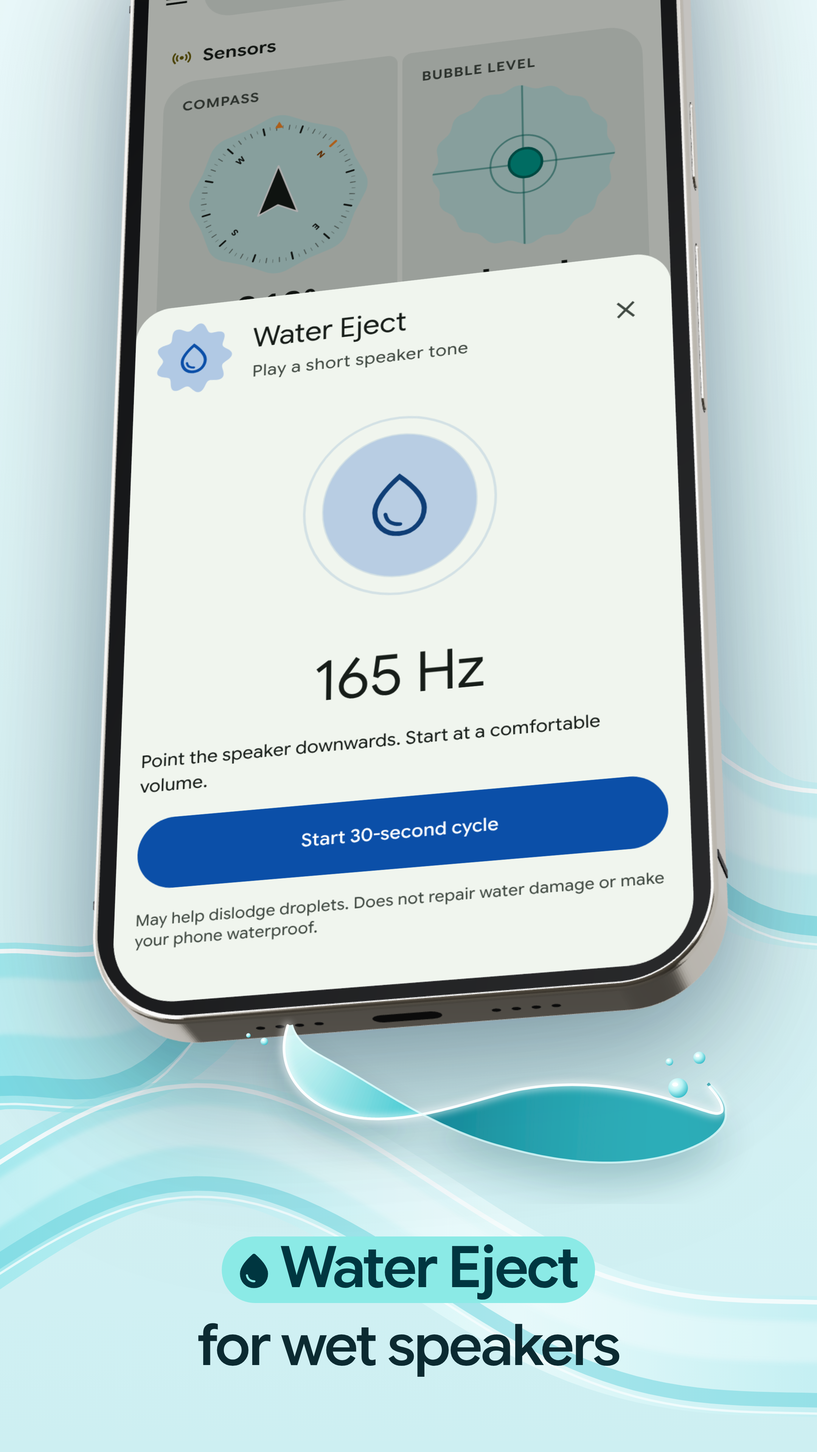
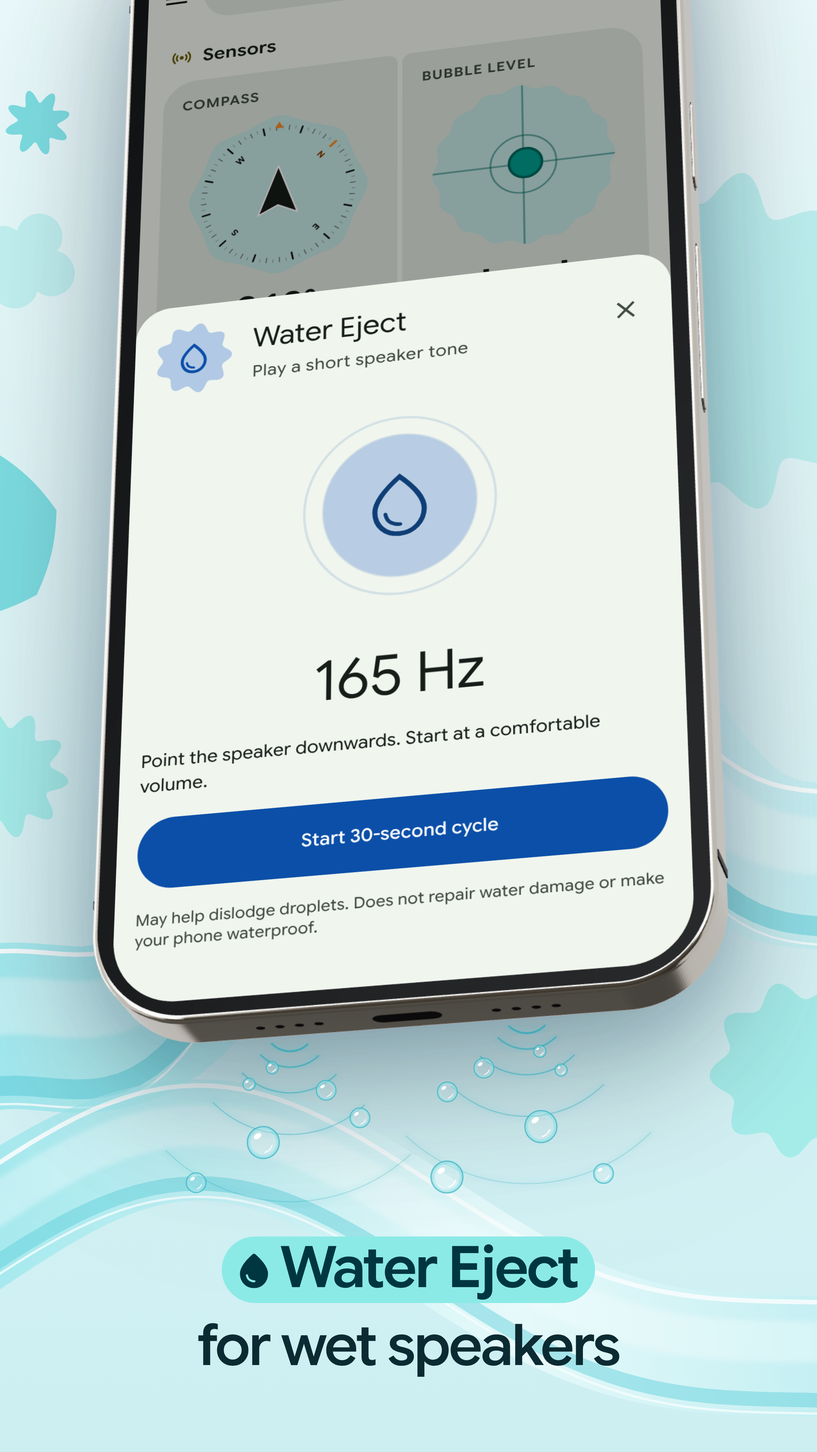
Speaker Water Eject hero: sound waves, bubbles and shapes
Replace the water ribbon with fine sound arcs from both groups of the
3D Pixel's speaker holes, opening along the bottom face's projected
normal on a Fibonacci radius scale, and bubbles riding just outside the
wavefronts. Add MaterialShapes in the campaign's aqua tones, placed
only where the background's glass ribbons leave room, with the largest
behind the phone's right edge. The ribbon geometry is now shared by the
background and the shape placement; other graphics are unchanged.

Claude-Session: https://claude.ai/code/session_01EEYGaFXbmvKJrEAo9apjWh

diff --git a/marketing/creative/store/google-play/listings/custom/speaker-water-eject/source/src/heroGeometry.ts b/marketing/creative/store/google-play/listings/custom/speaker-water-eject/source/src/heroGeometry.ts
@@ -127,6 +127,30 @@ export const widthAt = (poly: Pt[], y: number) => {
   return xs.length ? Math.max(...xs) - Math.min(...xs) : 0;
 };
 
+/** Even–odd point-in-polygon test. */
+export const inside = (poly: Pt[], [x, y]: Pt) => {
+  let c = false;
+  poly.forEach((p, i) => { const q = poly[(i + poly.length - 1) % poly.length]; if ((p[1] > y) !== (q[1] > y) && x < ((q[0] - p[0]) * (y - p[1])) / (q[1] - p[1]) + p[0]) c = !c; });
+  return c;
+};
+
+/** The lowest point of a closed polygon on the vertical line at `x`, or -Infinity if the line misses it. */
+export const floorAt = (poly: Pt[], x: number) => {
+  let y = -Infinity;
+  poly.forEach((p, i) => {
+    const q = poly[(i + 1) % poly.length];
+    if ((p[0] - x) * (q[0] - x) <= 0 && p[0] !== q[0]) y = Math.max(y, p[1] + ((q[1] - p[1]) * (x - p[0])) / (q[0] - p[0]));
+  });
+  return y;
+};
+
+/** The distance from a point to a closed polygon's outline. */
+export const distanceTo = (poly: Pt[], [x, y]: Pt) => Math.min(...poly.map((p, i) => {
+  const q = poly[(i + 1) % poly.length], [dx, dy] = [q[0] - p[0], q[1] - p[1]];
+  const t = Math.max(0, Math.min(1, ((x - p[0]) * dx + (y - p[1]) * dy) / (dx * dx + dy * dy || 1)));
+  return Math.hypot(x - p[0] - t * dx, y - p[1] - t * dy);
+}));
+
 export type Ui = Record<"title" | "visual" | "readout" | "instructions" | "button" | "note", number[]>;
 
 /** Everything the solver scores and the overlay draws, for one pose. */
@@ -144,18 +168,21 @@ export const measure = (pose: Pose, ui: Ui) => {
   const along = [edgeFront[1][0] - edgeFront[0][0], edgeFront[1][1] - edgeFront[0][1]], al = Math.hypot(along[0], along[1]);
   const thickness = ((eb[0] - ef[0]) * -along[1] + (eb[1] - ef[1]) * along[0]) / al;
   const angle = (Math.atan2(edgeFront[1][1] - edgeFront[0][1], edgeFront[1][0] - edgeFront[0][0]) * 180) / Math.PI;
-  const speaker = project(pose, [SPEAKER.left, hh, 0]);
-  // The direction water leaves the grille: the bottom face's outward normal, as the camera sees it.
-  const out = project(pose, [SPEAKER.left, hh + 40, 0]);
-  const len = Math.hypot(out[0] - speaker[0], out[1] - speaker[1]);
-  const direction: Pt = [(out[0] - speaker[0]) / len, (out[1] - speaker[1]) / len];
+  // Each group of speaker holes, and the direction sound leaves it: the bottom face's outward normal,
+  // as the camera sees it.
+  const speakers = [SPEAKER.left, SPEAKER.right].map((sx) => {
+    const at = project(pose, [sx, hh, 0]), out = project(pose, [sx, hh + 40, 0]);
+    const len = Math.hypot(out[0] - at[0], out[1] - at[1]);
+    return { at, direction: [(out[0] - at[0]) / len, (out[1] - at[1]) / len] as Pt };
+  });
+  const [speaker, direction] = [speakers[0].at, speakers[0].direction];
   // Signed the same way: how far the back of the right side shows beyond its front, to the right.
   const [sf, sb] = [project(pose, [FRAME.width / 2, 0, d]), project(pose, [FRAME.width / 2, 0, -d])];
   const side = ((sb[0] - sf[0]) * along[0] + (sb[1] - sf[1]) * along[1]) / al;
   const quads = Object.fromEntries(Object.entries(ui).map(([k, [l, t, r, b]]) => [k, [[l, t], [r, t], [r, b], [l, b]].map((p) => projectScreen(pose, p as Pt))])) as Record<keyof Ui, Pt[]>;
   // How much narrower the phone is where it leaves the top edge than just above its bottom edge.
   const keystone = widthAt(silhouette, 0) / widthAt(silhouette, focal[1] - SPACE.xl);
-  return { keystone, silhouette, visible, area, centroid, box: bbox(visible), full: bbox(silhouette), edgeFront, edgeBack, focal, thickness, angle, speaker, direction, side, quads };
+  return { keystone, silhouette, visible, area, centroid, box: bbox(visible), full: bbox(silhouette), edgeFront, edgeBack, focal, thickness, angle, speaker, direction, speakers, side, quads };
 };
 
 /** The caption's top: its two lines (76 px at a 1.36 line height) stand on CAPTION_BAND.bottom. */
@@ -175,43 +202,78 @@ export const violations = (m: ReturnType<typeof measure>) => {
   return v;
 };
 
-/** A cubic Bézier sampled at `n` + 1 points. */
-export const bezier = ([p0, p1, p2, p3]: Pt[], n: number): Pt[] => Array.from({ length: n + 1 }, (_, i) => {
-  const t = i / n, u = 1 - t;
-  return [0, 1].map((k) => u * u * u * p0[k] + 3 * u * u * t * p1[k] + 3 * u * t * t * p2[k] + t * t * t * p3[k]) as Pt;
-});
+/**
+ * Sound leaving both groups of speaker holes: for each, arcs centred on the projected holes, opening along
+ * the bottom face's projected normal, spanning ±`SPREAD` degrees, with radii from the spacing scale;
+ * the largest stops SPACE.m short of the caption.
+ */
+const SPREAD = 44;
+const RINGS = [SPACE.m, SPACE.l, SPACE.xl, SPACE.xxl, SPACE.xl + SPACE.xxl];
+export type Arc = { pts: Pt[]; ring: number };
+const onArc = (m: ReturnType<typeof measure>, k: number, radius: number, degrees: number): Pt => {
+  const { at: s, direction: d } = m.speakers[k], n: Pt = [-d[1], d[0]], a = rad(degrees);
+  return [s[0] + radius * (d[0] * Math.cos(a) + n[0] * Math.sin(a)), s[1] + radius * (d[1] * Math.cos(a) + n[1] * Math.sin(a))];
+};
+export const soundArcs = (m: ReturnType<typeof measure>): Arc[] =>
+  m.speakers.flatMap((_, k) => RINGS.filter((radius) => onArc(m, k, radius, 0)[1] <= CAPTION_TOP - SPACE.m).map((radius, ring) => ({ ring, pts: Array.from({ length: 41 }, (_, i) => onArc(m, k, radius, -SPREAD + (2 * SPREAD * i) / 40)) })));
 
 /**
- * The water's spine: two cubic Béziers joined smoothly. It leaves the speaker along the bottom face's
- * outward normal, bends through its lowest point on the right golden vertical, and rises into the open
- * space under the phone's right side, ending below it.
+ * Bubbles, [x, y, r], carried by the sound: each sits just outside a wavefront, as if the wave were pushing
+ * it, and grows the further out it rides (radii 8, 13, 21 from the scale). Angles are mirrored between the
+ * two speakers and offset a little so the pattern is not symmetric. A bubble is dropped if it would touch
+ * the phone, come within SPACE.m of the caption or meet another bubble.
  */
-export const waterSpine = (m: ReturnType<typeof measure>): Pt[] => {
-  const s = m.speaker, d = m.direction;
-  // The lowest point sits on the right golden vertical, SPACE.l above the water band's floor, so the
-  // ribbon's width stays clear of the caption; the tip stops SPACE.xl below the phone's silhouette,
-  // short of the right safe margin.
-  const low: Pt = [GOLDEN.x[1], WATER_BAND.bottom - SPACE.l];
-  const tipX = W - SAFE_X - SPACE.xl;
-  const tip: Pt = [tipX, Math.max(...m.silhouette.filter((p) => Math.abs(p[0] - tipX) < SPACE.xl).map((p) => p[1]), m.focal[1]) + SPACE.xl];
-  const first = bezier([s, [s[0] + d[0] * SPACE.xl, s[1] + d[1] * SPACE.xl], [low[0] - SPACE.xxl, low[1]], low], 60);
-  const second = bezier([low, [low[0] + SPACE.xxl, low[1]], [tip[0] + SPACE.xl, tip[1] + SPACE.xl], tip], 60);
-  return [...first, ...second.slice(1)];
+const RIDERS: [number, number, number][] = [[1, 22, 8], [2, -30, 13], [2, 34, 8], [3, -38, 13], [3, 12, 21], [4, -20, 21], [4, 30, 13]];
+export const bubbles = (m: ReturnType<typeof measure>): [number, number, number][] => {
+  const out: [number, number, number][] = [];
+  m.speakers.forEach((_, k) => RIDERS.forEach(([ring, degrees, r]) => {
+    const radius = RINGS[ring] + r * 0.7;
+    const [x, y] = onArc(m, k, radius, (k ? -degrees : degrees) + (k ? 6 : 0));
+    if (y + r > CAPTION_TOP - SPACE.m || x - r < SAFE_X || x + r > W - SAFE_X) return;
+    if (inside(m.visible, [x, y]) || distanceTo(m.visible, [x, y]) < r + SPACE.xs) return;
+    if (out.some(([bx, by, br]) => Math.hypot(bx - x, by - y) < br + r + SPACE.xs)) return;
+    out.push([x, y, r]);
+  }));
+  return out;
 };
 
-/** Droplets leaving the tip along its last direction, and two small ones at the grille. Radii 13, 8, 5. */
-export const waterDrops = (spine: Pt[]): [number, number, number][] => {
-  const [a, b] = [spine[spine.length - 6], spine[spine.length - 1]];
-  const l = Math.hypot(b[0] - a[0], b[1] - a[1]), d = [(b[0] - a[0]) / l, (b[1] - a[1]) / l], n = [-d[1], d[0]];
-  const s = spine[0];
-  return [
-    [b[0] + d[0] * SPACE.m + n[0] * SPACE.xs, b[1] + d[1] * SPACE.m + n[1] * SPACE.xs, 8],
-    [b[0] + d[0] * SPACE.l - n[0] * SPACE.s, b[1] + d[1] * SPACE.l - n[1] * SPACE.s, 5],
-    [b[0] + d[0] * SPACE.s - n[0] * SPACE.m, b[1] + d[1] * SPACE.s - n[1] * SPACE.m, 13],
-    [s[0] - SPACE.m, s[1] + SPACE.s, 5],
-    [s[0] - SPACE.l, s[1] + SPACE.xs, 3],
-  ];
-};
+export type Piece = { name: string; x: number; y: number; size: number; color: string; rotate: number };
 
-/** Half-width of the water along its spine: from a 6 px jet to a broad body, tapering to the tip. */
-export const waterHalfWidth = (t: number) => 3 + (SPACE.xl * 0.75) * Math.pow(Math.sin(Math.PI * Math.min(t * 1.1, 1)), 1.1);
+/** The MaterialShapes the other listings scatter, in the campaign's aqua tones only. */
+const SHAPE_NAMES = ["cookie_9sided", "flower", "clover_4leaf", "soft_burst", "gem", "pill", "sunny", "cookie_6sided"];
+const SHAPE_COLORS = ["#A6EDEA", "#7DDDE1", "#C2F0F0"];
+
+/**
+ * Shapes for the hero: one large shape behind the phone, showing beside its right edge above the
+ * the sound, and smaller ones from a seeded generator in the open space. Every shape keeps SPACE.s
+ * clear of the background's glass ribbons; a small one also keeps SPACE.s from the phone's visible
+ * silhouette, SPACE.m from the caption's text, the sound arcs, the bubbles and the other shapes, and may
+ * run off the image's edge.
+ */
+export type Ribbon = { pts: Pt[]; half: number };
+export const heroShapes = (m: ReturnType<typeof measure>, arcs: Arc[], spheres: [number, number, number][], ribbons: Ribbon[]): Piece[] => {
+  const clearOfRibbons = (cx: number, cy: number, r: number) => ribbons.every((b) => b.pts.every((p) => Math.hypot(p[0] - cx, p[1] - cy) > r + b.half + SPACE.s));
+  // The large shape: centred SPACE.xxl in from the right edge, on the upper golden line divided by φ,
+  // as large as it can be (up to the image's width) while it stays clear of the ribbons.
+  const [bx, by] = [W - SPACE.xxl, GOLDEN.y[0] / PHI];
+  let big = W;
+  while (big > SPACE.xxl && !clearOfRibbons(bx, by, big / 2)) big -= SPACE.xs;
+  const pieces: Piece[] = [{ name: "cookie_12sided", x: bx - big / 2, y: by - big / 2, size: big, color: "#BDEFEF", rotate: 12 }];
+  let seed = 11;
+  const rand = () => ((seed = (Math.imul(seed, 1664525) + 1013904223) >>> 0) / 4294967296);
+  const effect = [...arcs.flatMap((a) => a.pts).map((p) => [p[0], p[1], 6]), ...spheres] as number[][];
+  const caption = { left: W / 2 - 330, right: W / 2 + 330, top: CAPTION_TOP, bottom: CAPTION_BAND.bottom };
+  const clearOfPhone = (cx: number, cy: number, r: number) => !inside(m.visible, [cx, cy]) && distanceTo(m.visible, [cx, cy]) > r + SPACE.s;
+  const small: Piece[] = [];
+  for (let k = 0; small.length < 5 && k < 6000; k++) {
+    const size = SPACE.xl + rand() * (SPACE.xxl + SPACE.l), r = size / 2;
+    const cx = -r * 0.4 + rand() * (W + r * 0.8), cy = -r * 0.4 + rand() * (H + r * 0.8);
+    if (!clearOfPhone(cx, cy, r) || !clearOfRibbons(cx, cy, r)) continue;
+    if (Math.hypot(cx - bx, cy - by) < r + big / 2 + SPACE.m) continue;
+    if (cx + r > caption.left - SPACE.m && cx - r < caption.right + SPACE.m && cy + r > caption.top - SPACE.m && cy - r < caption.bottom + SPACE.m) continue;
+    if (effect.some(([x, y, er]) => Math.hypot(x - cx, y - cy) < r + er + SPACE.m)) continue;
+    if (small.some((p) => Math.hypot(p.x + p.size / 2 - cx, p.y + p.size / 2 - cy) < (p.size + size) / 2 + SPACE.m)) continue;
+    small.push({ name: SHAPE_NAMES[small.length % SHAPE_NAMES.length], x: cx - r, y: cy - r, size, color: SHAPE_COLORS[small.length % SHAPE_COLORS.length], rotate: rand() * 360 });
+  }
+  return [...pieces, ...small];
+};

diff --git a/marketing/creative/store/google-play/listings/custom/speaker-water-eject/source/src/Glass.tsx b/marketing/creative/store/google-play/listings/custom/speaker-water-eject/source/src/Glass.tsx
@@ -6,21 +6,31 @@ import React from "react";
  * and white along its length, with a bright rim and a cyan refracting edge. The ribbons are
  * computed across the whole strip, so every seam between two screenshots meets.
  */
+/** The ribbons: centre height, swing and period (in screenshots) as shares, band width in px. */
+const RIBBONS = [
+  { y0: 0.62, amp: 0.2, period: 1.7, phase: 2.4, w: 220, o: 0.9 },
+  { y0: 0.92, amp: 0.1, period: 2.6, phase: 4.1, w: 160, o: 0.8 },
+];
+
+/**
+ * Each ribbon's centreline across a strip, with the half-width its band and rims cover, so other art
+ * can keep clear of it. A slow sweep rising and falling once per screenshot or two.
+ */
+export const ribbonLines = (width: number, height: number, panels: number) => {
+  const panel = width / panels;
+  return RIBBONS.map((r) => ({
+    ...r,
+    half: r.w / 2,
+    pts: Array.from({ length: Math.floor((width + 400) / 20) + 1 }, (_, i) => {
+      const x = -200 + i * 20, y0 = height * r.y0, amp = height * r.amp;
+      return [x, y0 + amp * Math.sin((x / (panel * r.period)) * Math.PI * 2 + r.phase) + amp * 0.35 * Math.sin((x / (panel * r.period * 0.37)) * Math.PI * 2 + r.phase * 2.3)] as [number, number];
+    }),
+  }));
+};
+
 export const Glass: React.FC<{ width: number; height: number; panels: number; id?: string }> = ({ width, height, panels, id = "g" }) => {
   const panel = width / panels;
-  // A ribbon's centreline: a slow sweep across the strip, rising and falling once per screenshot or two.
-  const ribbon = (y0: number, amp: number, period: number, phase: number) => {
-    const pts: string[] = [];
-    for (let x = -200; x <= width + 200; x += 20) {
-      const y = y0 + amp * Math.sin((x / (panel * period)) * Math.PI * 2 + phase) + amp * 0.35 * Math.sin((x / (panel * period * 0.37)) * Math.PI * 2 + phase * 2.3);
-      pts.push(`${x},${y.toFixed(1)}`);
-    }
-    return `M ${pts.join(" L ")}`;
-  };
-  const ribbons = [
-    { d: ribbon(height * 0.62, height * 0.2, 1.7, 2.4), w: 220, o: 0.9 },
-    { d: ribbon(height * 0.92, height * 0.1, 2.6, 4.1), w: 160, o: 0.8 },
-  ];
+  const ribbons = ribbonLines(width, height, panels).map((r) => ({ d: `M ${r.pts.map(([x, y]) => `${x},${y.toFixed(1)}`).join(" L ")}`, w: r.w, o: r.o }));
   return (
     <svg aria-hidden width={width} height={height} viewBox={`0 0 ${width} ${height}`} style={{ position: "absolute", inset: 0, pointerEvents: "none" }}>
       <defs>
@@ -51,64 +61,36 @@ export const Glass: React.FC<{ width: number; height: number; panels: number; id
   );
 };
 
-/** A point on a Catmull-Rom curve through `pts`, at `t` from 0 to 1. */
-const along = (pts: number[][], t: number) => {
-  const n = pts.length - 1, f = Math.min(t * n, n - 1e-6), i = Math.floor(f), u = f - i;
-  const p0 = pts[Math.max(i - 1, 0)], p1 = pts[i], p2 = pts[i + 1], p3 = pts[Math.min(i + 2, n)];
-  return [0, 1].map((k) => 0.5 * (2 * p1[k] + (-p0[k] + p2[k]) * u + (2 * p0[k] - 5 * p1[k] + 4 * p2[k] - p3[k]) * u * u + (-p0[k] + 3 * p1[k] - 3 * p2[k] + p3[k]) * u * u * u));
-};
-const mix = (a: number[], b: number[], t: number) => a.map((v, k) => Math.round(v + (b[k] - v) * t));
-const rgb = (c: number[]) => `rgb(${c.join(",")})`;
-
 /**
- * Water leaving a speaker along `spine` (image coordinates, from the grille outwards): a ribbon of liquid
- * whose half-width follows `halfWidth`, twisting over as it travels so its light face and its deeper
- * underside both show. Built from short lit segments with bright rims; `drops` are [x, y, r]. An
- * illustration of the tone's effect, not a claim.
+ * Sound leaving the speakers and the bubbles it carries: `arcs` are point lists with their ring, 0 nearest, drawn as soft
+ * turquoise lines that fade as they spread; `bubbles` are [x, y, r], clear spheres with
+ * a rim and a highlight. An illustration of the tone, not a claim.
  */
-export const Wave: React.FC<{ spine: number[][]; halfWidth: (t: number) => number; drops: number[][]; width: number; height: number }> = ({ spine, halfWidth, drops, width, height }) => {
-  const N = 160;
-  const light = [214, 251, 250], mid = [64, 210, 218], deep = [8, 128, 144];
-  const segments = Array.from({ length: N }, (_, i) => {
-    const t0 = i / N, t1 = (i + 1) / N;
-    const edge = (t: number) => {
-      const [cx, cy] = along(spine, t), [ax, ay] = along(spine, Math.max(t - 0.004, 0)), [bx, by] = along(spine, Math.min(t + 0.004, 1));
-      const len = Math.hypot(bx - ax, by - ay) || 1, nx = -(by - ay) / len, ny = (bx - ax) / len;
-      const w = halfWidth(t);
-      const twist = Math.cos(Math.PI * 1.35 * t);
-      return { a: [cx + nx * w * twist, cy + ny * w * twist], b: [cx - nx * w * twist, cy - ny * w * twist], twist };
-    };
-    const e0 = edge(t0), e1 = edge(t1);
-    const face = Math.abs(e0.twist), front = e0.twist >= 0;
-    const fill = front ? mix(mix(mid, light, face), deep, t0 * 0.35) : mix(deep, mid, face * 0.5);
-    return { key: i, d: `M ${e0.a} L ${e1.a} L ${e1.b} L ${e0.b} Z`, fill: rgb(fill), a: [e0.a, e1.a], b: [e0.b, e1.b], t: t0 };
-  });
-  const rim = (side: "a" | "b") => `M ${segments.map((s) => s[side][0]).join(" L ")}`;
-  return (
-    <svg aria-hidden width={width} height={height} viewBox={`0 0 ${width} ${height}`} style={{ position: "absolute", inset: 0, pointerEvents: "none" }}>
-      <defs>
-        <radialGradient id="wave-drop" cx=".35" cy=".3" r=".8">
-          <stop offset="0" stopColor="#FFFFFF" />
-          <stop offset=".45" stopColor="#B8F3F4" />
-          <stop offset="1" stopColor="#1FB3C2" />
-        </radialGradient>
-        <filter id="wave-shadow" x="-20%" y="-20%" width="140%" height="150%"><feDropShadow dx="0" dy="28" stdDeviation="24" floodColor="#00444E" floodOpacity=".25" /></filter>
-        <filter id="wave-soft" x="-10%" y="-10%" width="120%" height="120%"><feGaussianBlur stdDeviation="5" /></filter>
-      </defs>
-      <g>
-        <g filter="url(#wave-shadow)" opacity=".94">
-          {segments.map((s) => <path key={s.key} d={s.d} fill={s.fill} stroke={s.fill} strokeWidth="1.2" strokeLinejoin="round" />)}
+export const SoundBubbles: React.FC<{ arcs: { pts: number[][]; ring: number }[]; bubbles: number[][]; width: number; height: number }> = ({ arcs, bubbles, width, height }) => (
+  <svg aria-hidden width={width} height={height} viewBox={`0 0 ${width} ${height}`} style={{ position: "absolute", inset: 0, pointerEvents: "none" }}>
+    <defs>
+      <radialGradient id="sound-bubble" cx=".5" cy=".5" r=".5">
+        <stop offset=".62" stopColor="#FFFFFF" stopOpacity=".08" />
+        <stop offset=".9" stopColor="#7FDDE4" stopOpacity=".6" />
+        <stop offset="1" stopColor="#FFFFFF" stopOpacity=".95" />
+      </radialGradient>
+      <filter id="sound-glow" x="-20%" y="-20%" width="140%" height="140%"><feGaussianBlur stdDeviation="4" /></filter>
+    </defs>
+    {arcs.map(({ pts, ring: i }, key) => {
+      const d = `M ${pts.map((p) => p.map((n) => n.toFixed(1)).join(" ")).join(" L ")}`, fade = 1 - i * 0.15;
+      return (
+        <g key={key} opacity={fade}>
+          <path d={d} fill="none" stroke="#3FC6D3" strokeWidth={7} strokeLinecap="round" opacity=".18" filter="url(#sound-glow)" />
+          <path d={d} fill="none" stroke="#1AA5B5" strokeWidth={Math.max(1.4, 2.6 - i * 0.3)} strokeLinecap="round" opacity=".6" />
         </g>
-        <path d={rim("a")} fill="none" stroke="#FFFFFF" strokeWidth="10" strokeLinecap="round" opacity=".55" filter="url(#wave-soft)" />
-        <path d={rim("a")} fill="none" stroke="#FFFFFF" strokeWidth="3.5" strokeLinecap="round" opacity=".95" />
-        <path d={rim("b")} fill="none" stroke="#E8FFFF" strokeWidth="2.5" strokeLinecap="round" opacity=".8" />
-        {drops.map(([cx, cy, r], i) => (
-          <g key={i}>
-            <circle cx={cx} cy={cy} r={r} fill="url(#wave-drop)" />
-            <ellipse cx={cx - r * 0.3} cy={cy - r * 0.35} rx={r * 0.3} ry={r * 0.2} fill="#FFFFFF" />
-          </g>
-        ))}
+      );
+    })}
+    {bubbles.map(([x, y, r], i) => (
+      <g key={i}>
+        <circle cx={x} cy={y} r={r} fill="url(#sound-bubble)" stroke="#1FA9B8" strokeOpacity=".65" strokeWidth={Math.max(1.5, r * 0.09)} />
+        <ellipse cx={x - r * 0.36} cy={y - r * 0.4} rx={r * 0.26} ry={r * 0.16} fill="#FFFFFF" transform={`rotate(-35 ${x - r * 0.36} ${y - r * 0.4})`} />
+        <path d={`M ${x + r * 0.55} ${y + r * 0.2} A ${r * 0.7} ${r * 0.7} 0 0 1 ${x + r * 0.1} ${y + r * 0.62}`} fill="none" stroke="#FFFFFF" strokeWidth={Math.max(1.2, r * 0.08)} strokeOpacity=".85" strokeLinecap="round" />
       </g>
-    </svg>
-  );
-};
+    ))}
+  </svg>
+);

diff --git a/marketing/creative/store/google-play/listings/custom/speaker-water-eject/source/src/Hero.tsx b/marketing/creative/store/google-play/listings/custom/speaker-water-eject/source/src/Hero.tsx
@@ -1,34 +1,37 @@
 import React from "react";
 import { LitScreen } from "./LitScreen";
 import { SCREENS } from "./screens";
-import { Wave } from "./Glass";
+import { SoundBubbles, ribbonLines } from "./Glass";
+import { Shape } from "./Shape";
 import solved from "./hero-pose.json";
-import { CAPTION_BAND, CAPTION_TOP, FRAME, GOLDEN, H, SAFE_X, SPACE, W, WATER_BAND, measure, violations, waterDrops, waterHalfWidth, waterSpine } from "./heroGeometry";
+import { CAPTION_BAND, CAPTION_TOP, FRAME, GOLDEN, H, SAFE_X, SPACE, W, WATER_BAND, bubbles, heroShapes, measure, soundArcs, violations } from "./heroGeometry";
 import type { Pose, Pt, Ui } from "./heroGeometry";
 
 const pose = solved.pose as Pose;
 const geometry = measure(pose, solved.ui as Ui);
 const problems = violations(geometry);
 if (problems.length) throw new Error(`The hero pose breaks its constraints: ${problems.join("; ")}`);
-const spine = waterSpine(geometry);
-const drops = waterDrops(spine);
+const arcs = soundArcs(geometry);
+const spheres = bubbles(geometry);
+const shapes = heroShapes(geometry, arcs, spheres, ribbonLines(W, H, 1));
 
 /**
  * The first screenshot: the phone in the pose scripts/solve-hero.ts solved for (src/hero-pose.json), the
  * frame's centre at (x, y), turned in 3D by the device frame itself and only scaled and rolled in the
- * picture plane. Water leaves its speaker holes along the spine the geometry defines. `debug` draws the
- * guides and measurements instead of the water.
+ * picture plane. Sound arcs leave both groups of speaker holes, carrying bubbles on their wavefronts. `debug` draws the
+ * guides and measurements, with the arcs and bubbles as outlines.
  */
 export const Hero: React.FC<{ debug?: boolean }> = ({ debug }) => {
   const [id, state] = SCREENS["water-eject"];
   return (
     <>
+      {shapes.map((p, i) => <Shape key={i} {...p} />)}
       <div style={{ position: "absolute", left: pose.x - FRAME.width / 2, top: pose.y - FRAME.height / 2, width: FRAME.width, height: FRAME.height, zIndex: 1, transform: `rotate(${pose.roll}deg) scale(${pose.scale})`, transformOrigin: "50% 50%", filter: "drop-shadow(0 34px 44px rgba(0,40,48,.26))" }}>
         <LitScreen id={id} state={state} pose={{ yaw: pose.yaw, pitch: pose.pitch, perspective: pose.perspective }} style={{ width: FRAME.width }} />
       </div>
       {!debug && (
         <div style={{ position: "absolute", left: 0, top: 0, width: W, height: H, zIndex: 10 }}>
-          <Wave spine={spine} halfWidth={waterHalfWidth} drops={drops} width={W} height={H} />
+          <SoundBubbles arcs={arcs} bubbles={spheres} width={W} height={H} />
         </div>
       )}
       {debug && <Overlay />}
@@ -63,12 +66,13 @@ const Overlay: React.FC = () => {
       <circle cx={g.focal[0]} cy={g.focal[1]} r="9" fill="#FF6D00" />
       <circle cx={g.speaker[0]} cy={g.speaker[1]} r="9" fill="#00838F" />
       <line x1={g.speaker[0]} y1={g.speaker[1]} x2={g.speaker[0] + g.direction[0] * SPACE.xl} y2={g.speaker[1] + g.direction[1] * SPACE.xl} stroke="#00838F" strokeWidth="4" />
-      <polyline points={poly(spine)} fill="none" stroke="#00838F" strokeWidth="3" strokeDasharray="8 6" />
+      {arcs.map((a, i) => <polyline key={i} points={poly(a.pts)} fill="none" stroke="#00838F" strokeWidth="2" strokeDasharray="8 6" />)}
+      {spheres.map(([x, y, r], i) => <circle key={i} cx={x} cy={y} r={r} fill="none" stroke="#00838F" strokeWidth="2" />)}
       {label(c[0] + 30, c[1] - 10, `silhouette centroid ${n(c[0], W)} W, ${n(c[1], H)} H`)}
       {label(g.focal[0] + 16, g.focal[1] + 64, `speaker edge ${n(g.focal[0], W)} W, ${n(g.focal[1], H)} H`, "#E65100")}
       {label(g.speaker[0] - 330, g.speaker[1] - 18, `speaker ${n(g.speaker[0], W)} W, ${n(g.speaker[1], H)} H`, "#00838F")}
       {label(b.left + 8, b.bottom + 30, `box ${n(b.left, W)}–${n(b.right, W)} W, to ${n(b.bottom, H)} H`, "#1565C0")}
-      {label(SAFE_X + 8, WATER_BAND.top + 26, `water band 0.65–0.80 H · edge ${n(g.thickness, W)} W thick, ${g.angle.toFixed(1)}°`, "#00838F")}
+      {label(SAFE_X + 8, WATER_BAND.top + 26, `effect band 0.65 H to caption · edge ${n(g.thickness, W)} W thick, ${g.angle.toFixed(1)}°`, "#00838F")}
       {label(CAPTION_BAND.left + 8, CAPTION_BAND.top - 10, "caption band 0.82–0.954 H", "#6A1B9A")}
     </svg>
   );

diff --git a/marketing/creative/store/google-play/listings/custom/speaker-water-eject/README.md b/marketing/creative/store/google-play/listings/custom/speaker-water-eject/README.md
@@ -16,7 +16,7 @@ The keywords describe intent, not measured demand. The prior Play reports did no
 
 Five screenshots read as one panorama in the language of Material 3's own hero art: a light aqua field crossed by ribbons of liquid glass in aqua and white, with sharp white rims. The ribbons are computed across the whole strip, so every seam meets. No phone crosses a divider: each screenshot stands on its own, and the render fails if a phone's visible part enters the next image. Headlines are dark on the light field, with App Toolkit's aqua caption pill. Phones are Material-Next's porcelain 3D Pixel 9 Pro XL. Every image shows a different screen or state, with its own composition: the ready 165 Hz screen appears once, in the hero.
 
-1. Hero: a solved product shot, not a placed one. scripts/solve-hero.ts projects the 3D Pixel through the device frame's own camera and searches pitch, yaw, roll and perspective, solving scale and position so the visible silhouette's centroid sits at 0.50 W, the speaker edge at 0.70 H and the top runs beyond the image; it scores the bottom edge's visible thickness and angle and the narrowing towards the top against the reference, and rejects any pose that pushes the measured Water Eject UI inside the 0.05 W margins or the phone into the caption. The solution (src/hero-pose.json) is pitch 28°, yaw -13°, no roll, a 3000 px camera. A turquoise wave leaves the model's speaker holes along a Bézier spine that starts on the bottom face's projected normal, bottoms out on the right golden vertical and ends below the phone; the caption sits at the foot of the image, 89 px from the edge. Measured balance: contrast-weighted centroid 0.500 W, weight 0.495 left and 0.505 right. scripts/debug-hero.mjs overlays the golden guides, silhouette, centroid, speaker point, bands and water spine. The water is an illustration of the tone, not a promise of what the app does to a phone.
+1. Hero: a solved product shot, not a placed one. scripts/solve-hero.ts projects the 3D Pixel through the device frame's own camera and searches pitch, yaw, roll and perspective, solving scale and position so the visible silhouette's centroid sits at 0.50 W, the speaker edge at 0.70 H and the top runs beyond the image; it scores the bottom edge's visible thickness and angle and the narrowing towards the top against the reference, and rejects any pose that pushes the measured Water Eject UI inside the 0.05 W margins or the phone into the caption. The solution (src/hero-pose.json) is pitch 28°, yaw -13°, no roll, a 3000 px camera. Fine sound arcs leave both groups of the model's speaker holes along the bottom face's projected normal, with radii on a Fibonacci scale (34 to 233 px), and bubbles ride just outside the wavefronts as if pushed by them. MaterialShapes in the campaign's aqua tones sit only where the background's glass ribbons leave room, the largest behind the phone's right edge. The caption sits at the foot of the image, 89 px from the edge. Measured balance: contrast-weighted centroid 0.494 W, weight 0.511 left and 0.489 right. scripts/debug-hero.mjs overlays the golden guides, silhouette, centroid, speaker points, bands, arcs and bubbles. The sound and bubbles illustrate the tone; they are not a promise of what the app does to a phone.
 2. Up to 30 seconds: a close crop on the running cycle and its 20 second countdown.
 3. You choose when to stop: the whole phone turned to show its side, at 8 seconds with the Stop button in view.
 4. The toolbox: Unit Converter and Quick Tools side by side, tilted apart.
